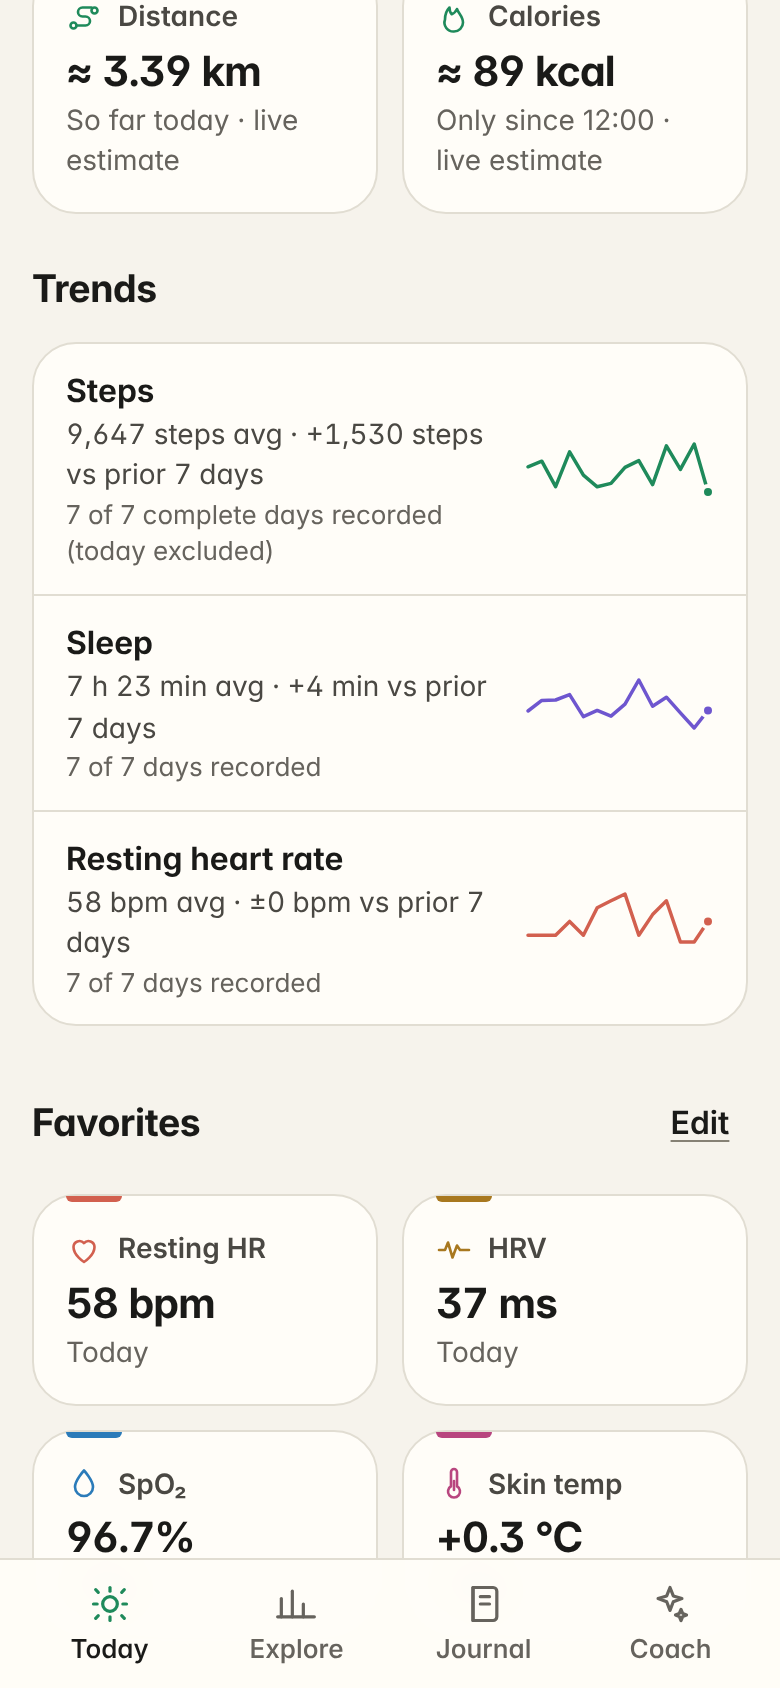
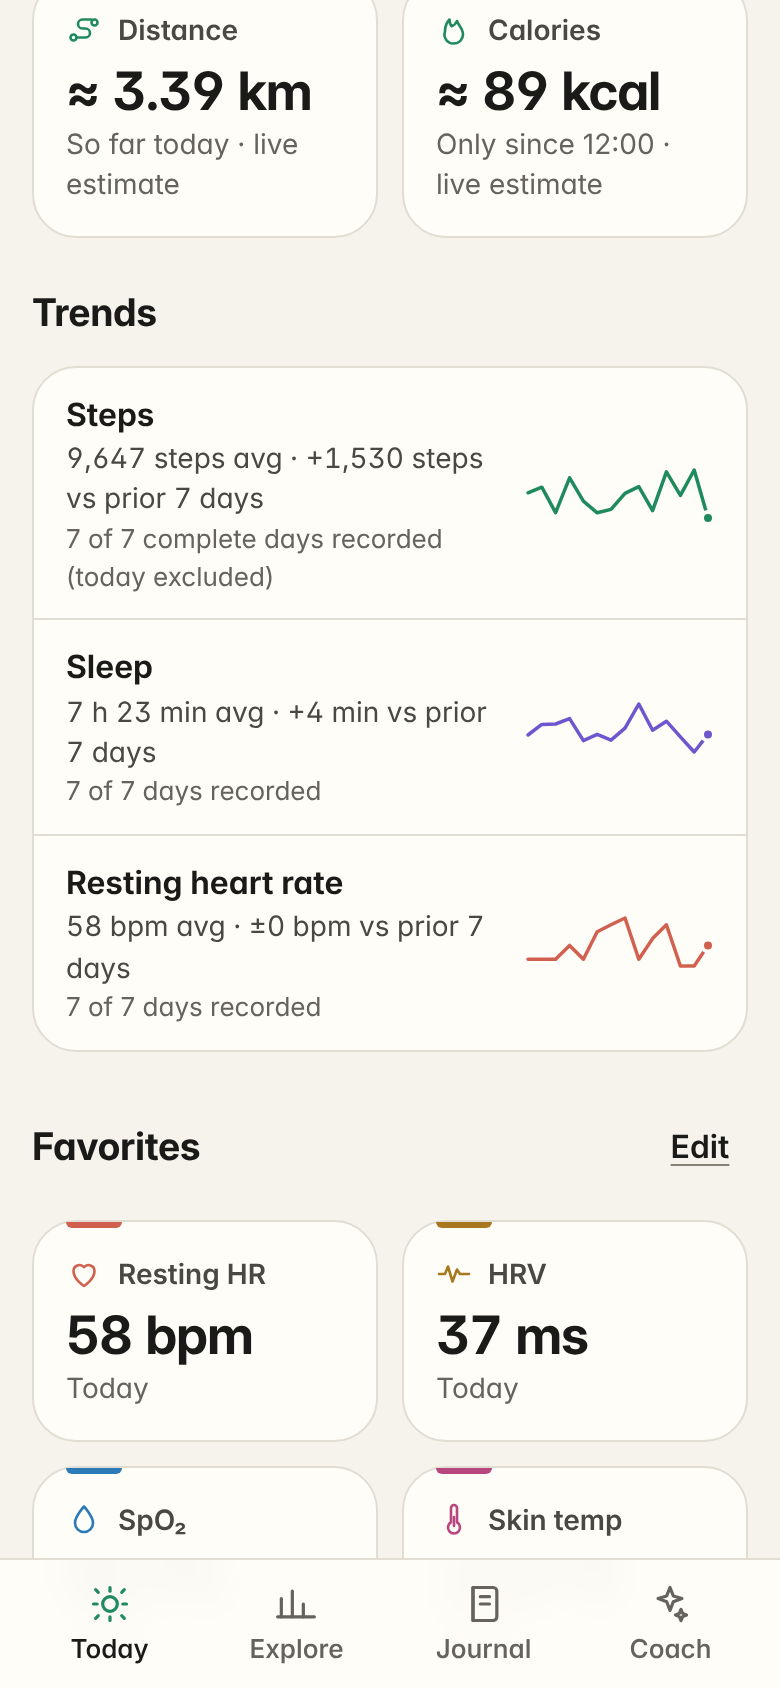
Larger Today tile values; record final review scores
Tile values had become too small after switching to container units;
raise the floor so the main number stands out again. Full mobile sweep
(55 screens x 5 devices x 4 text sizes) remains free of overflow and
clipping.

Claude-Session: https://claude.ai/code/session_01VbyZ4WPkwabFdouNp5ib2H

diff --git a/app/style/app.css b/app/style/app.css
@@ -524,7 +524,7 @@ fieldset { border: 0; padding: 0; margin: var(--s3) 0; min-width: 0; }
 /* Values never break mid-number; long ones shrink a little on narrow phones. */
 .tile:not(.hero) { container-type: inline-size; }
 /* Sized to the tile itself (not the screen), so values fit 2- or 3-up layouts. */
-.tile-value { font-size: clamp(1.125rem, 15cqi, 2rem); max-width: 100%; }
+.tile-value { font-size: clamp(1.5rem, 19cqi, 2rem); max-width: 100%; }
 .tile, .hero-text, .insight, .insight-head h3, .metric-row > * { min-width: 0; }
 /* Large text (Android font scaling, browser zoom): tiles drop to one column
    instead of clipping values. rem tracks the user's text size. */

diff --git a/README.md b/README.md
@@ -70,7 +70,7 @@ No feature pretends to work: unavailable adapters say what is missing.
   * SQLite migrations and persistence after reopening;
   * a year of per-minute heart rate (about 525,000 samples), which summarizes in about 130 ms in release.
 * **Independent agent reviews** against the original specification, each running its own browser tests:
-  functional and data correctness 95%, charts 93%, accessibility 92%, mobile UX 87%. Every defect they
+  functional and data correctness 95%, charts 93%, accessibility 92%, mobile UX 91%. Every defect they
   reported after that was fixed and re-checked with their own scripts; the mobile sweep (55 screens × 5 phone
   sizes and orientations × text at 100/130/150/200%) finds no overflow, clipping or console errors.
 * **Large text and small screens:** no horizontal overflow on any screen at 150% and 200% text on
